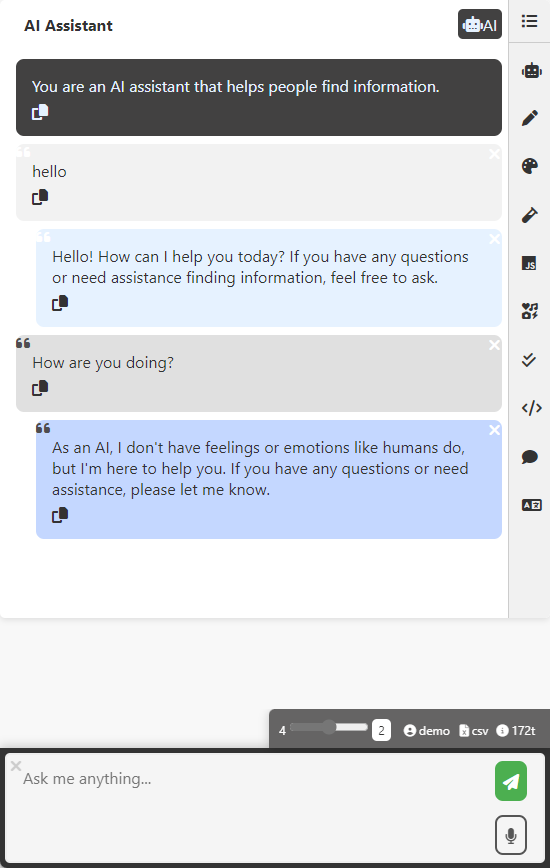
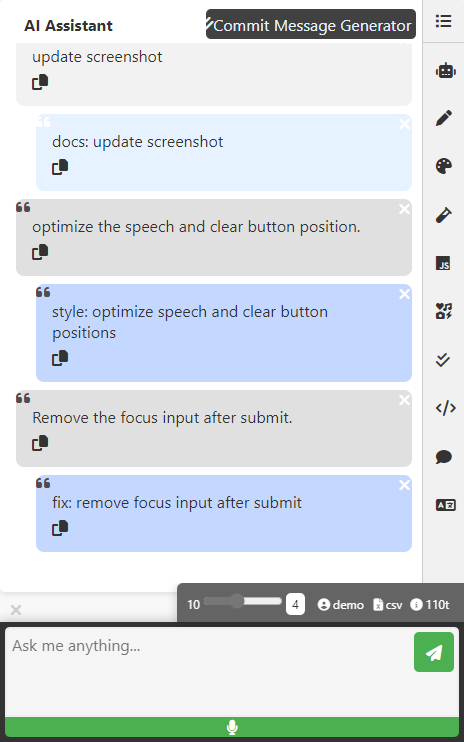
docs: update mobile device screenshot

diff --git a/README.md b/README.md
@@ -4,7 +4,7 @@ Welcome to chatGPTdemo, a fascinating demo website built with Node.js and Azure 
 
 ## 🌟 Features
 
-![chatGPTdemo](./demo-mobile.jpg)
+![chatGPTdemo](./demo-mobile.png)
 
 - Easy-to-use chat interface
 - Customizable AI character role
